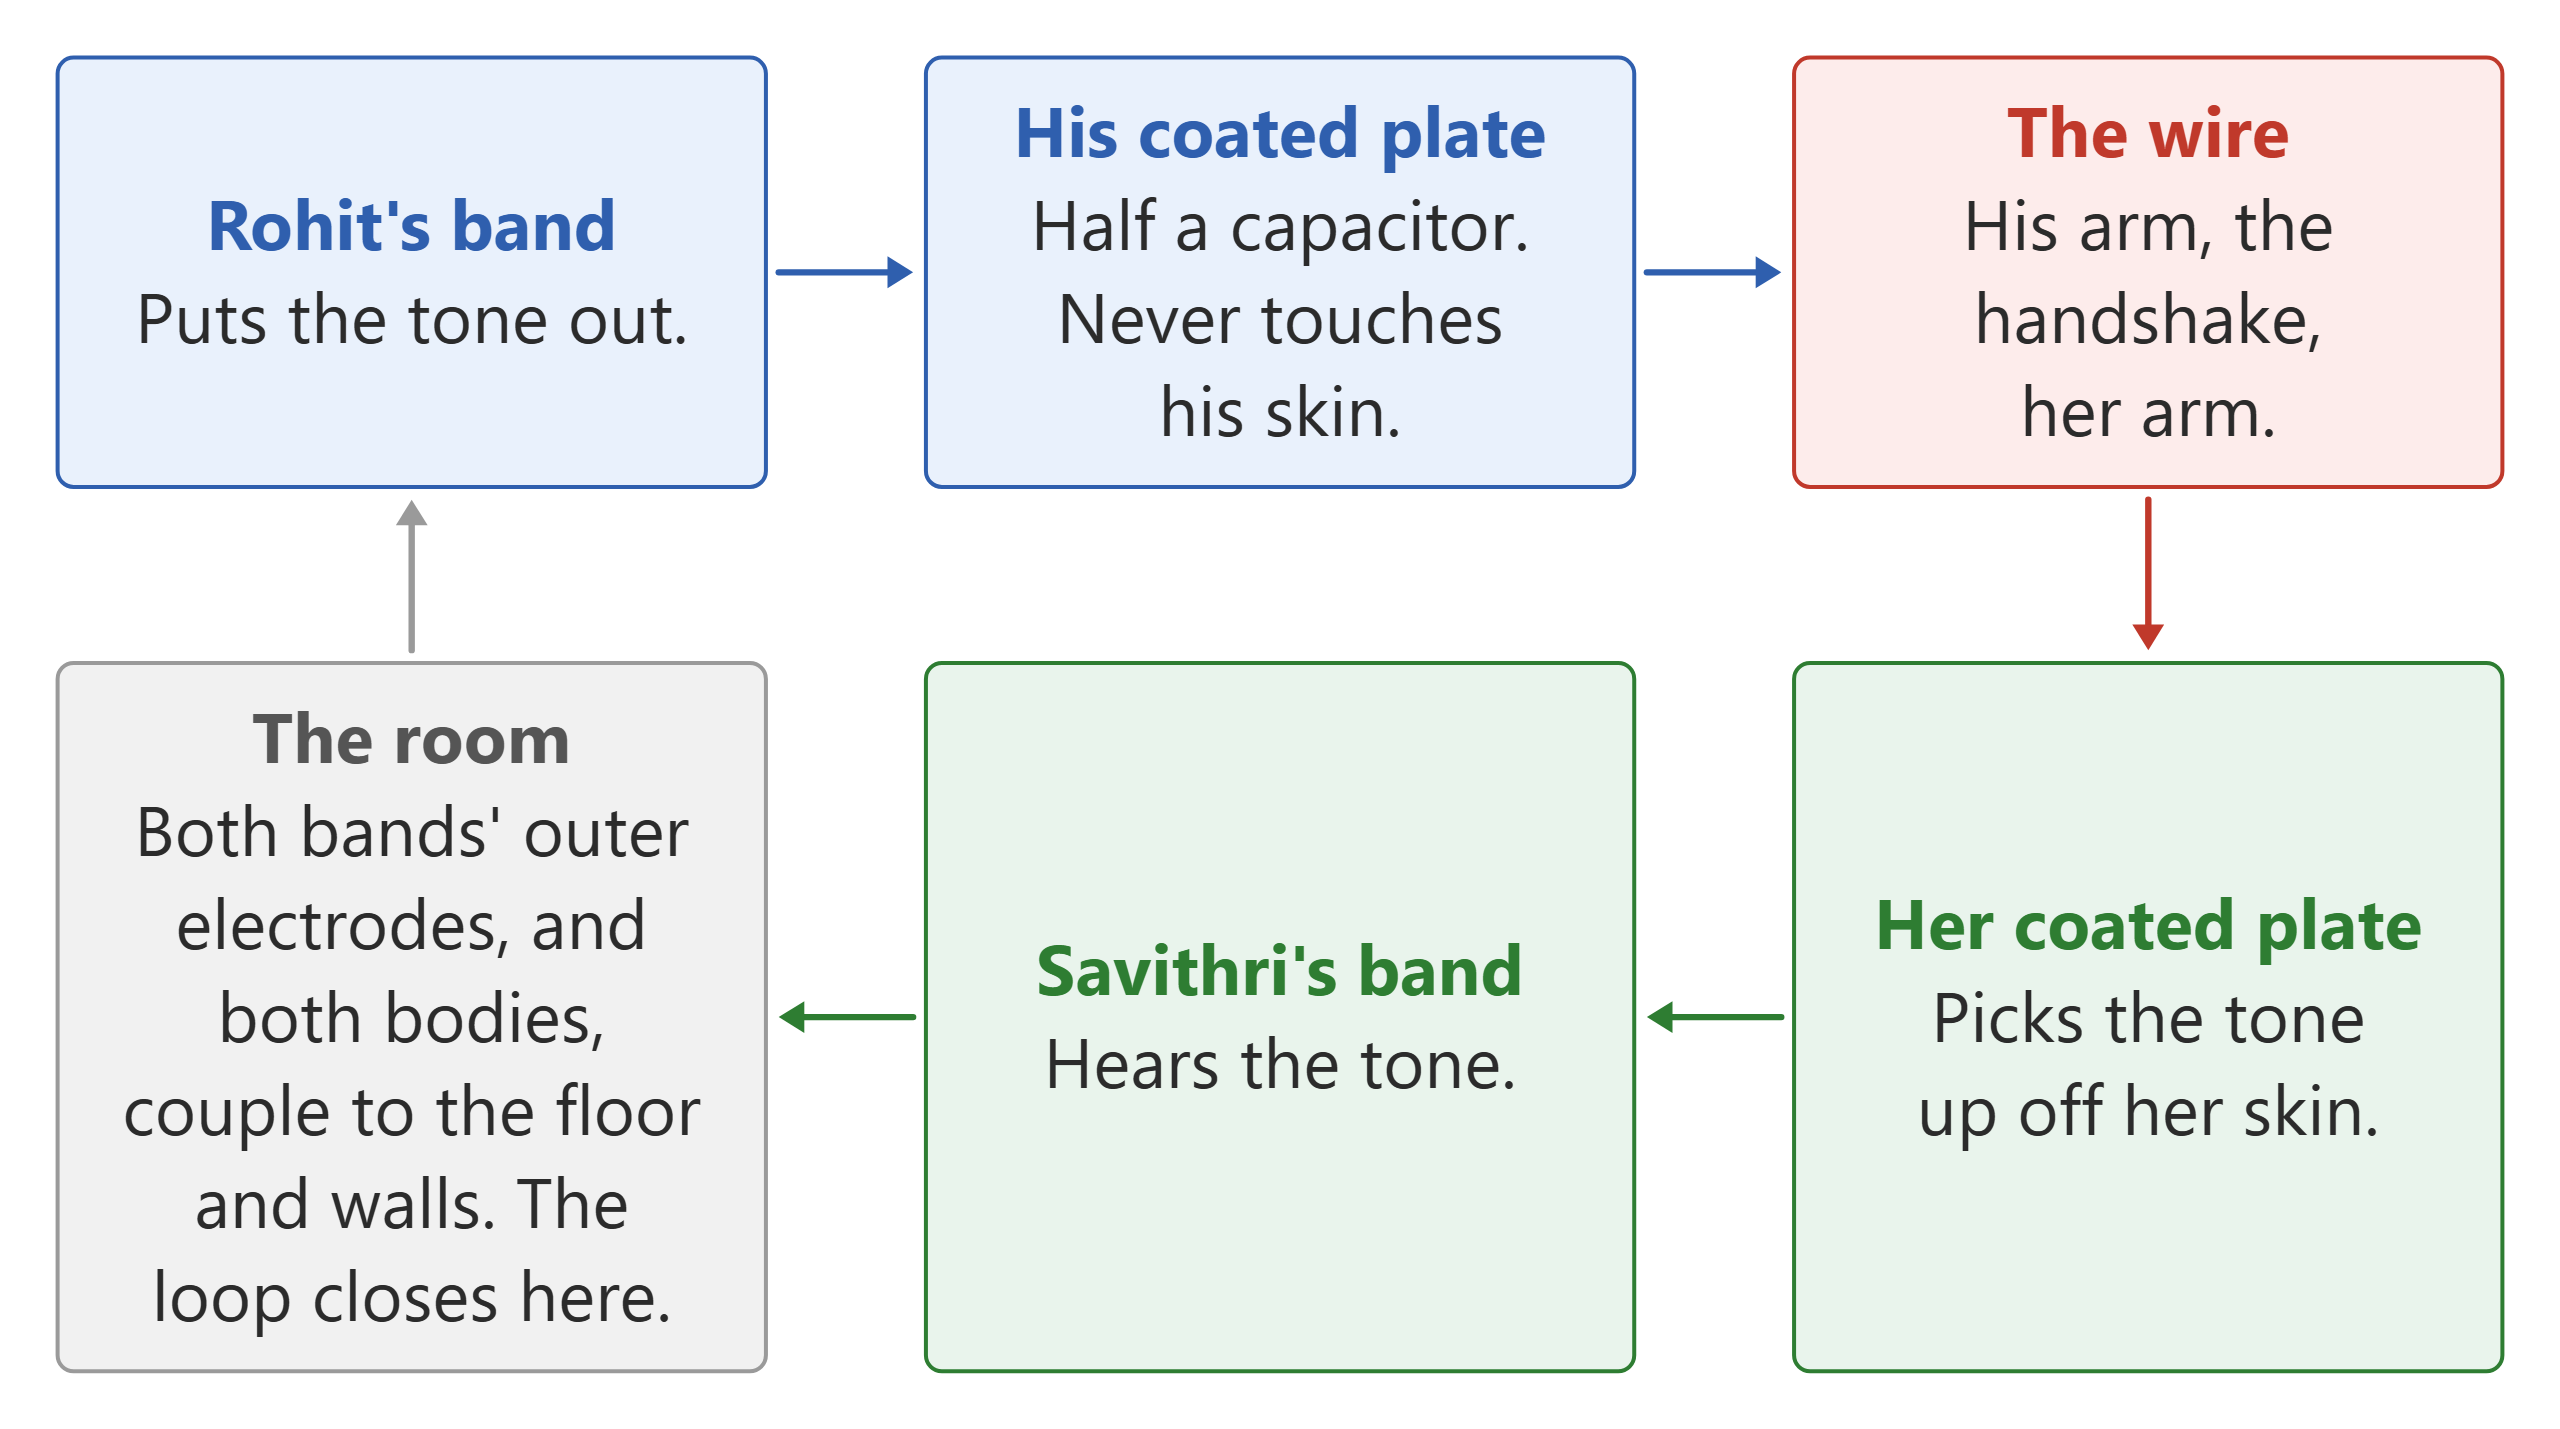
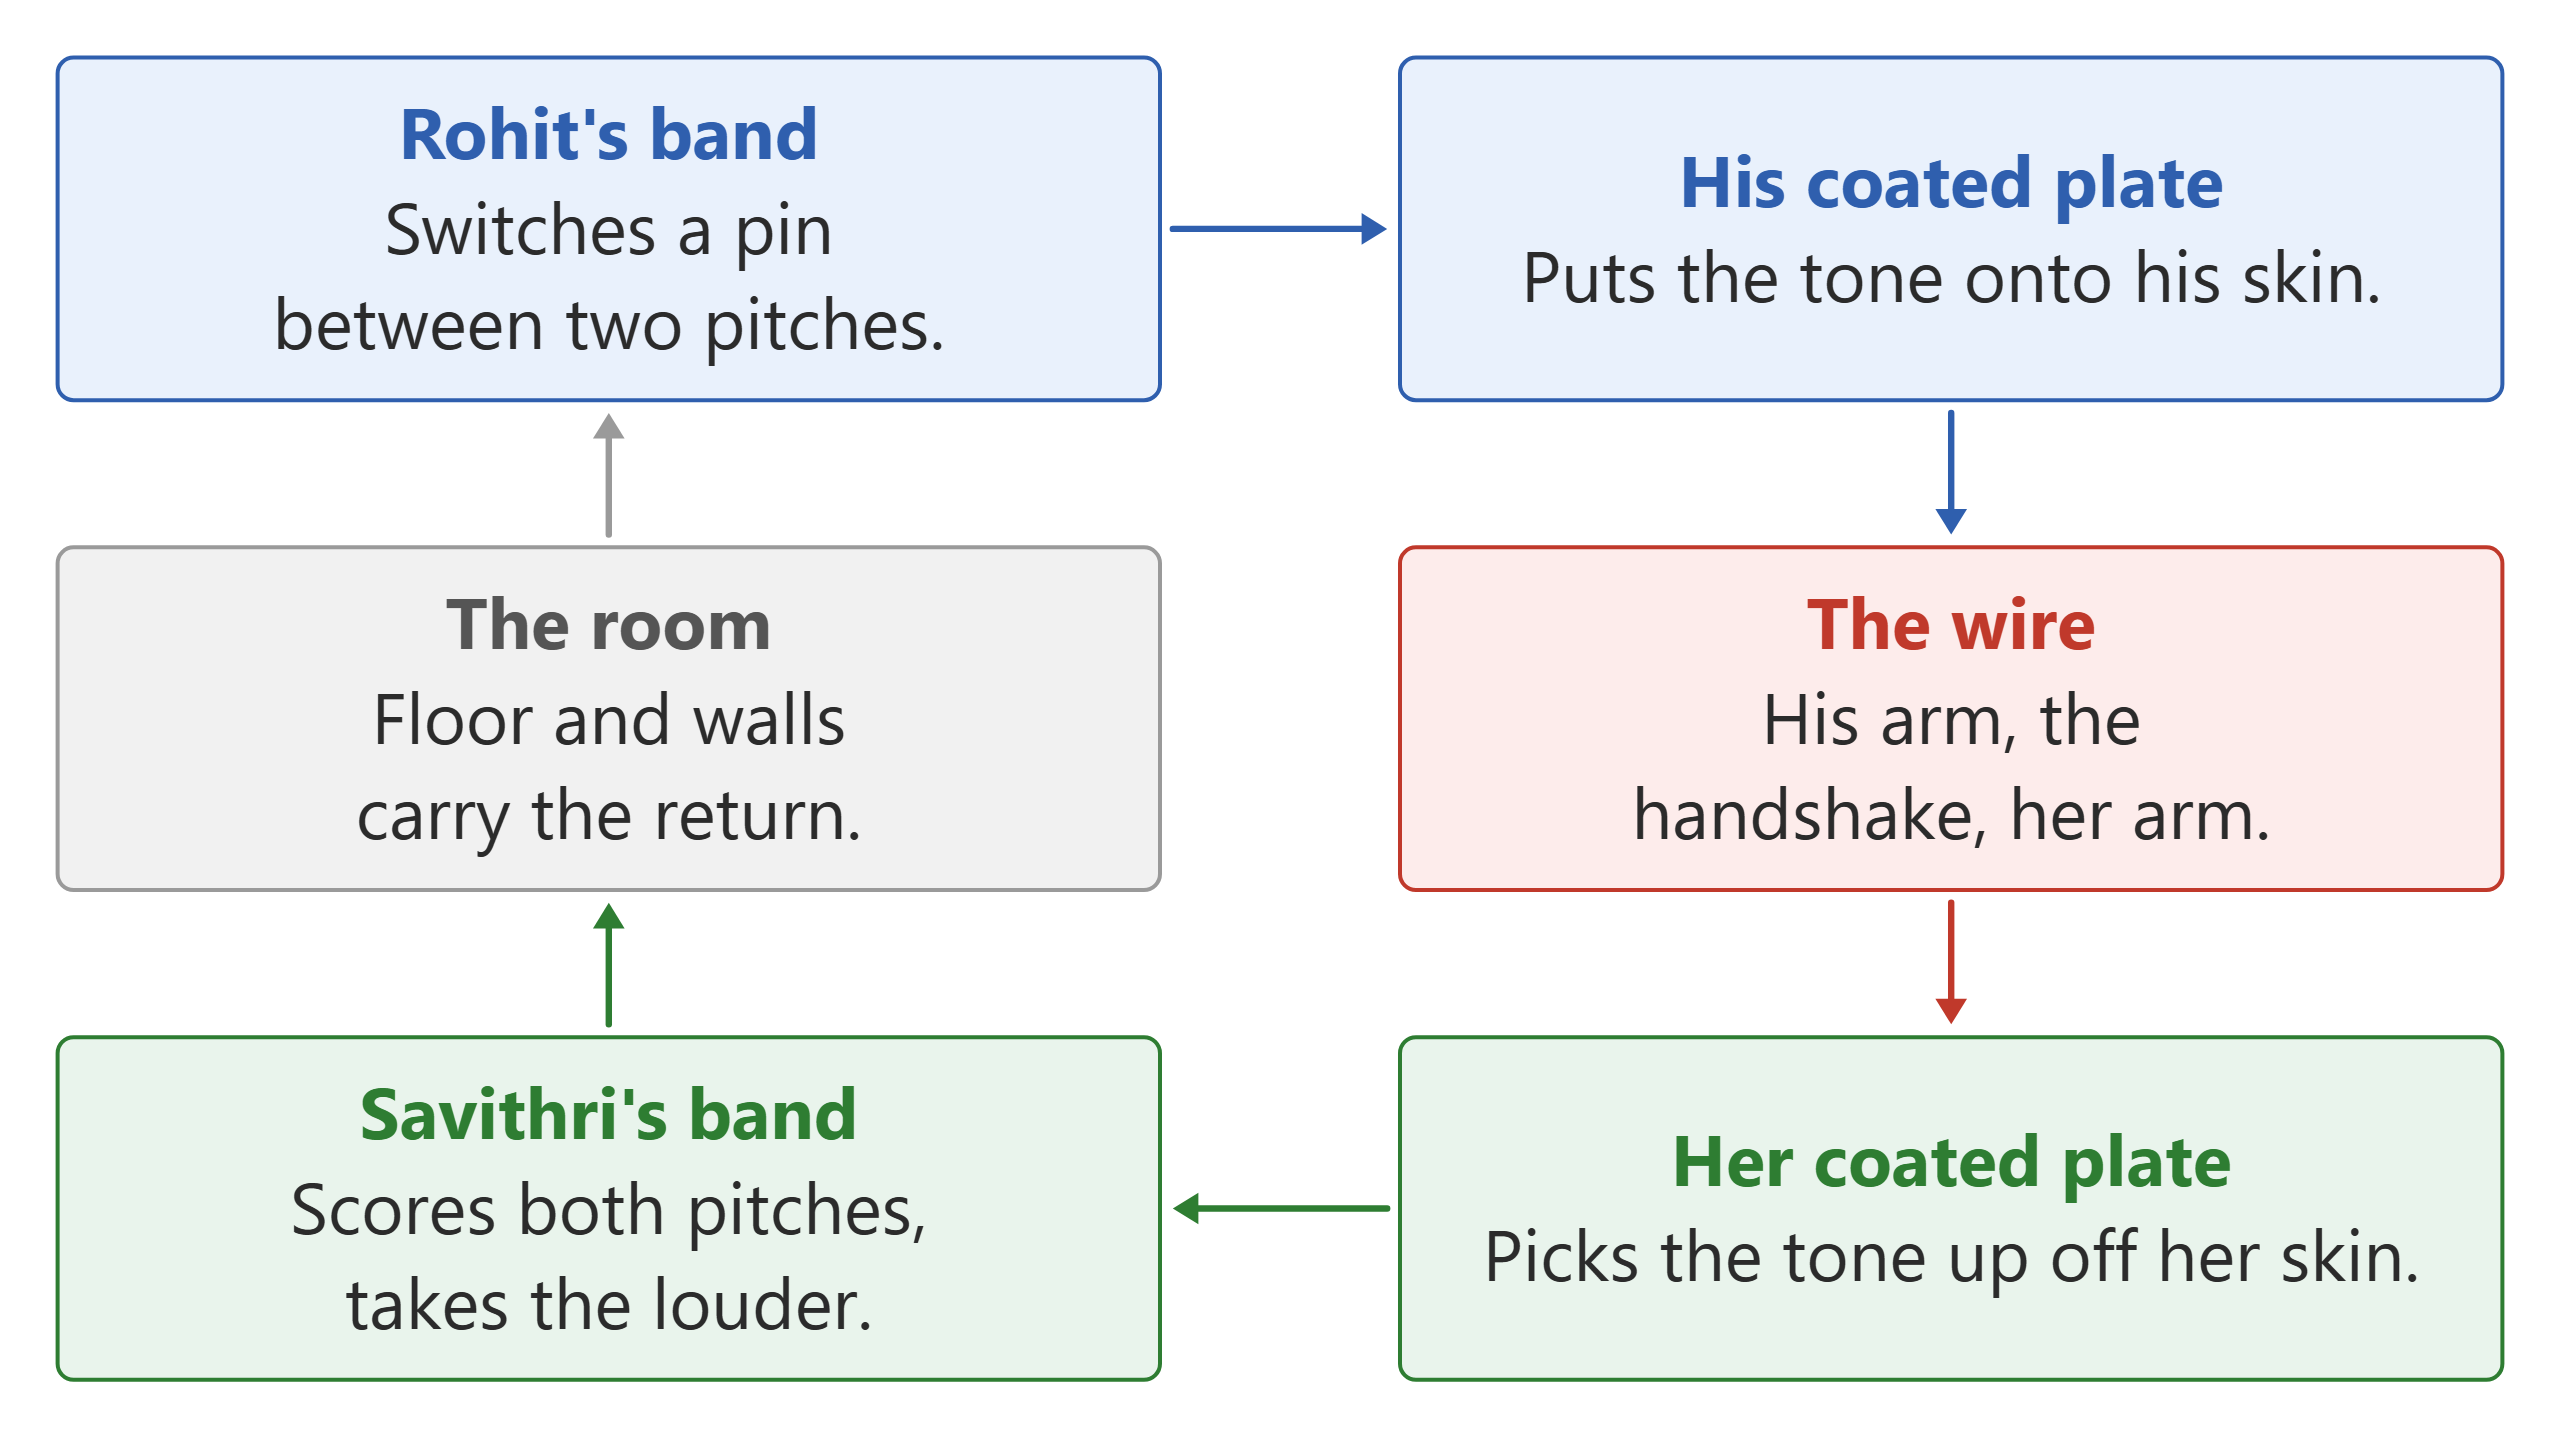
element14 blog: 5.4 is six steps round the loop, and the figure matches
The section was twelve bullets doing a dozen jobs at once. It is now one
bullet per box in figure 02, in the order the tone travels, and the bolds
alone read as the whole path.

The figure is two columns and three rows to match: Rohit's row on top,
Savithri's at the bottom, the handshake and the room between them, and the
arrows going round as one ring. Every box carries one short line, so every
box is the same size.

Two things the old text got wrong are gone rather than reworded: there is
no 180 = 0, 200 = 1 mapping (a bit is a PAIR of chips and the order is the
bit, which is 5.5's subject), and the guard bins are at 140, 160 and 220
kHz, not neighbours of the tones.

diff --git a/docs/element14-blog/gen-02-the-loop.py b/docs/element14-blog/gen-02-the-loop.py
@@ -1,49 +1,61 @@
 # Generates docs/element14-blog/02-the-loop.svg and .png
 # The circuit a handshake makes: out through two bodies, back through the room.
-# Top row left to right, bottom row right to left, so the picture is a loop.
-# Blue is Rohit's, green is Savithri's, red is the two bodies, grey the room.
+# Two columns, three rows, and the arrows go round as one ring: the top row is
+# Rohit's, the bottom row is Savithri's, the middle row is the handshake and
+# the room. Blue is Rohit's, green is Savithri's, red is the two bodies, grey
+# the room. Every box carries one short line, so every box is the same size.
 
 from figlib import Fig, need, solve, BLUE, GREEN, RED, GREY
 
 S = {
-    "rb":   ("Rohit's band", "Puts the tone out.", BLUE),
-    "p1":   ("His coated plate", "Half a capacitor. Never touches his skin.", BLUE),
+    "rb":   ("Rohit's band", "Switches a pin between two pitches.", BLUE),
+    "p1":   ("His coated plate", "Puts the tone onto his skin.", BLUE),
+    "room": ("The room", "Floor and walls carry the return.", GREY),
     "wire": ("The wire", "His arm, the handshake, her arm.", RED),
+    "sb":   ("Savithri's band", "Scores both pitches, takes the louder.", GREEN),
     "p2":   ("Her coated plate", "Picks the tone up off her skin.", GREEN),
-    "sb":   ("Savithri's band", "Hears the tone.", GREEN),
-    "room": ("The room", "Both bands' outer electrodes, and both bodies, couple to the floor and walls. The loop closes here.", GREY),
 }
 
-W, M, GX, VG = 1600, 36, 100, 110
+ROWS = (("rb", "p1"), ("room", "wire"), ("sb", "p2"))
+
+W, M, GX, VG = 1600, 36, 150, 92
 
 
 def build(fs):
-    cw = (W - 2 * M - 2 * GX) / 3
-    h1 = [need(*S[k][:2], cw, fs) for k in ("rb", "p1", "wire")]
-    h2 = [need(*S[k][:2], cw, fs) for k in ("room", "sb", "p2")]
-    if None in h1 + h2:
+    cw = (W - 2 * M - GX) / 2
+    hs = [need(*S[k][:2], cw, fs) for row in ROWS for k in row]
+    if None in hs:
         return None
-    ha, hb = max(h1), max(h2)
-    H = M + ha + VG + hb + M
+    bh = max(hs)                      # one height for all six
+    H = M + 3 * bh + 2 * VG + M
     f = Fig(W, fs)
-    x = [M + i * (cw + GX) for i in range(3)]
-    y1, y2 = M, M + ha + VG
+    x = [M, M + cw + GX]
+    y = [M + i * (bh + VG) for i in range(3)]
 
-    for i, k in enumerate(("rb", "p1", "wire")):
-        f.box(x[i], y1, cw, ha, *S[k])
-    for i, k in enumerate(("room", "sb", "p2")):
-        f.box(x[i], y2, cw, hb, *S[k])
+    for r, row in enumerate(ROWS):
+        for c, k in enumerate(row):
+            f.box(x[c], y[r], cw, bh, *S[k])
 
     # each arrow takes the colour of the box it leaves
-    mid1, mid2 = y1 + ha / 2, y2 + hb / 2
-    f.arrow([(x[0] + cw + 8, mid1), (x[1] - 8, mid1)], BLUE[1])
-    f.arrow([(x[1] + cw + 8, mid1), (x[2] - 8, mid1)], BLUE[1])
-    cx2 = x[2] + cw / 2
-    f.arrow([(cx2, y1 + ha + 8), (cx2, y2 - 8)], RED[1])
-    f.arrow([(x[2] - 8, mid2), (x[1] + cw + 8, mid2)], GREEN[1])
-    f.arrow([(x[1] - 8, mid2), (x[0] + cw + 8, mid2)], GREEN[1])
-    cx0 = x[0] + cw / 2
-    f.arrow([(cx0, y2 - 8), (cx0, y1 + ha + 8)], GREY[1])
+    def across(r, colour, right=True):
+        m = y[r] + bh / 2
+        pts = [(x[0] + cw + 8, m), (x[1] - 8, m)]
+        f.arrow(pts if right else pts[::-1], colour)
+
+    def down(c, r, colour):
+        cx = x[c] + cw / 2
+        f.arrow([(cx, y[r] + bh + 8), (cx, y[r + 1] - 8)], colour)
+
+    def up(c, r, colour):
+        cx = x[c] + cw / 2
+        f.arrow([(cx, y[r] - 8), (cx, y[r - 1] + bh + 8)], colour)
+
+    across(0, BLUE[1])                # Rohit's band -> his plate
+    down(1, 0, BLUE[1])               # his plate    -> the wire
+    down(1, 1, RED[1])                # the wire     -> her plate
+    across(2, GREEN[1], right=False)  # her plate    -> Savithri's band
+    up(0, 2, GREEN[1])                # her band     -> the room
+    up(0, 1, GREY[1])                 # the room     -> Rohit's band
     return f, H
 
 

diff --git a/docs/element14-blog.md b/docs/element14-blog.md
@@ -303,18 +303,12 @@ The wire is somebody, so it must be safe. And it is a terrible wire, so little g
 
 *The loop a handshake makes. The only thing that touches is the two hands.*
 
-* **The plate never touches skin.** It is half a capacitor, and reaches the body through an electric field, not through metal on skin.
-* **The room carries the signal back.** Nobody holds a second wire, so each band's outer face couples to the floor and the walls.
-* That is the weakest step in the loop, and the first version of the band did not have it. Fitting a second, outer electrode to both bands is what turned a link that worked for a few seconds and then died into one that runs all day: **1 good frame worn before, 447 after**, and the longest run of missing frames fell from *the link died and stayed dead* to three.
-* **Touch, not air.** The same two bands, the same 90 seconds, the same spacing as a pair of relaxed hands: **447 frames through the two people, 0 across the table with nobody near.** Whatever is happening, it is not RF leaking across the room.
-* **Battery only.** A band is never worn while it is plugged in. The full safety rules are in B.1.
-* **Most of the signal is lost** on purpose. A 100 kΩ resistor sits in series with the plate on the way out and another on the way in — two on every band. They are the biggest loss in the whole link, and they are what holds the current through a person down to a few tens of microamps.
-* **Lower is not better.** 10 kΩ was tried. It does drive the body harder, and the receiver's own measure of how clearly it heard each bit rose from 19 to 32 — but the share of frames arriving intact fell from 70 % to 44 %. Put back to 100 kΩ, and why it gets worse was never established.
-* **So, two amplifiers of ×11** make what is left big enough to read.
-* **No mixer, no oscillator.** The software asks one question of every 50 µs of sound: *how much of each of five pitches is there?* Anything at another pitch is never counted.
-* **180 and 200 kHz**, as high as the converter can see. That is where the pad is quietest: listening with nothing transmitting anywhere, the noise halves every time the pitch doubles — 225 at 20 kHz, 123 at 40 kHz, 62 at 100 kHz, 30 at 200 kHz.
-* **Never silent.** One tone or the other is always on the plate. That is the whole of the next section.
-* **One dead end, recorded so nobody repeats it.** The plate and the skin make a capacitor; add an inductor tuned to the carrier and the two resonate, for 20–30 dB of free gain and one cheap part. It does not work: a resonance only builds when little is lost along the way, and this link throws most of its signal away in the safety resistors on purpose. The same loss flattens the resonance before it can build.
+* **Rohit's band puts the tone out.** A pin on the Pico switches between two pitches, 180 and 200 kHz, and one of them is on the plate at all times. No radio, no aerial.
+* **His plate puts the tone onto his skin.** Without touching it: the plate is coated, so it is half a capacitor, and the tone crosses the last gap as an electric field.
+* **The wire is his arm, the handshake, her arm.** A person is a poor wire, so only a whisper of the tone comes out the other end.
+* **Her plate picks it up off her skin.** What arrives is tiny, so two amplifiers of ×11 make it big enough to read.
+* **Her band hears it.** Every 50 µs it scores both pitches and asks only which was louder. Three more bins, at 140, 160 and 220 kHz, carry nothing and measure the room in the same window.
+* **The room closes the loop.** Nobody holds a return wire, so each band's outer electrode couples to the floor and the walls.
 
 #### 5.5 Two tones, and three that nobody sends
 
